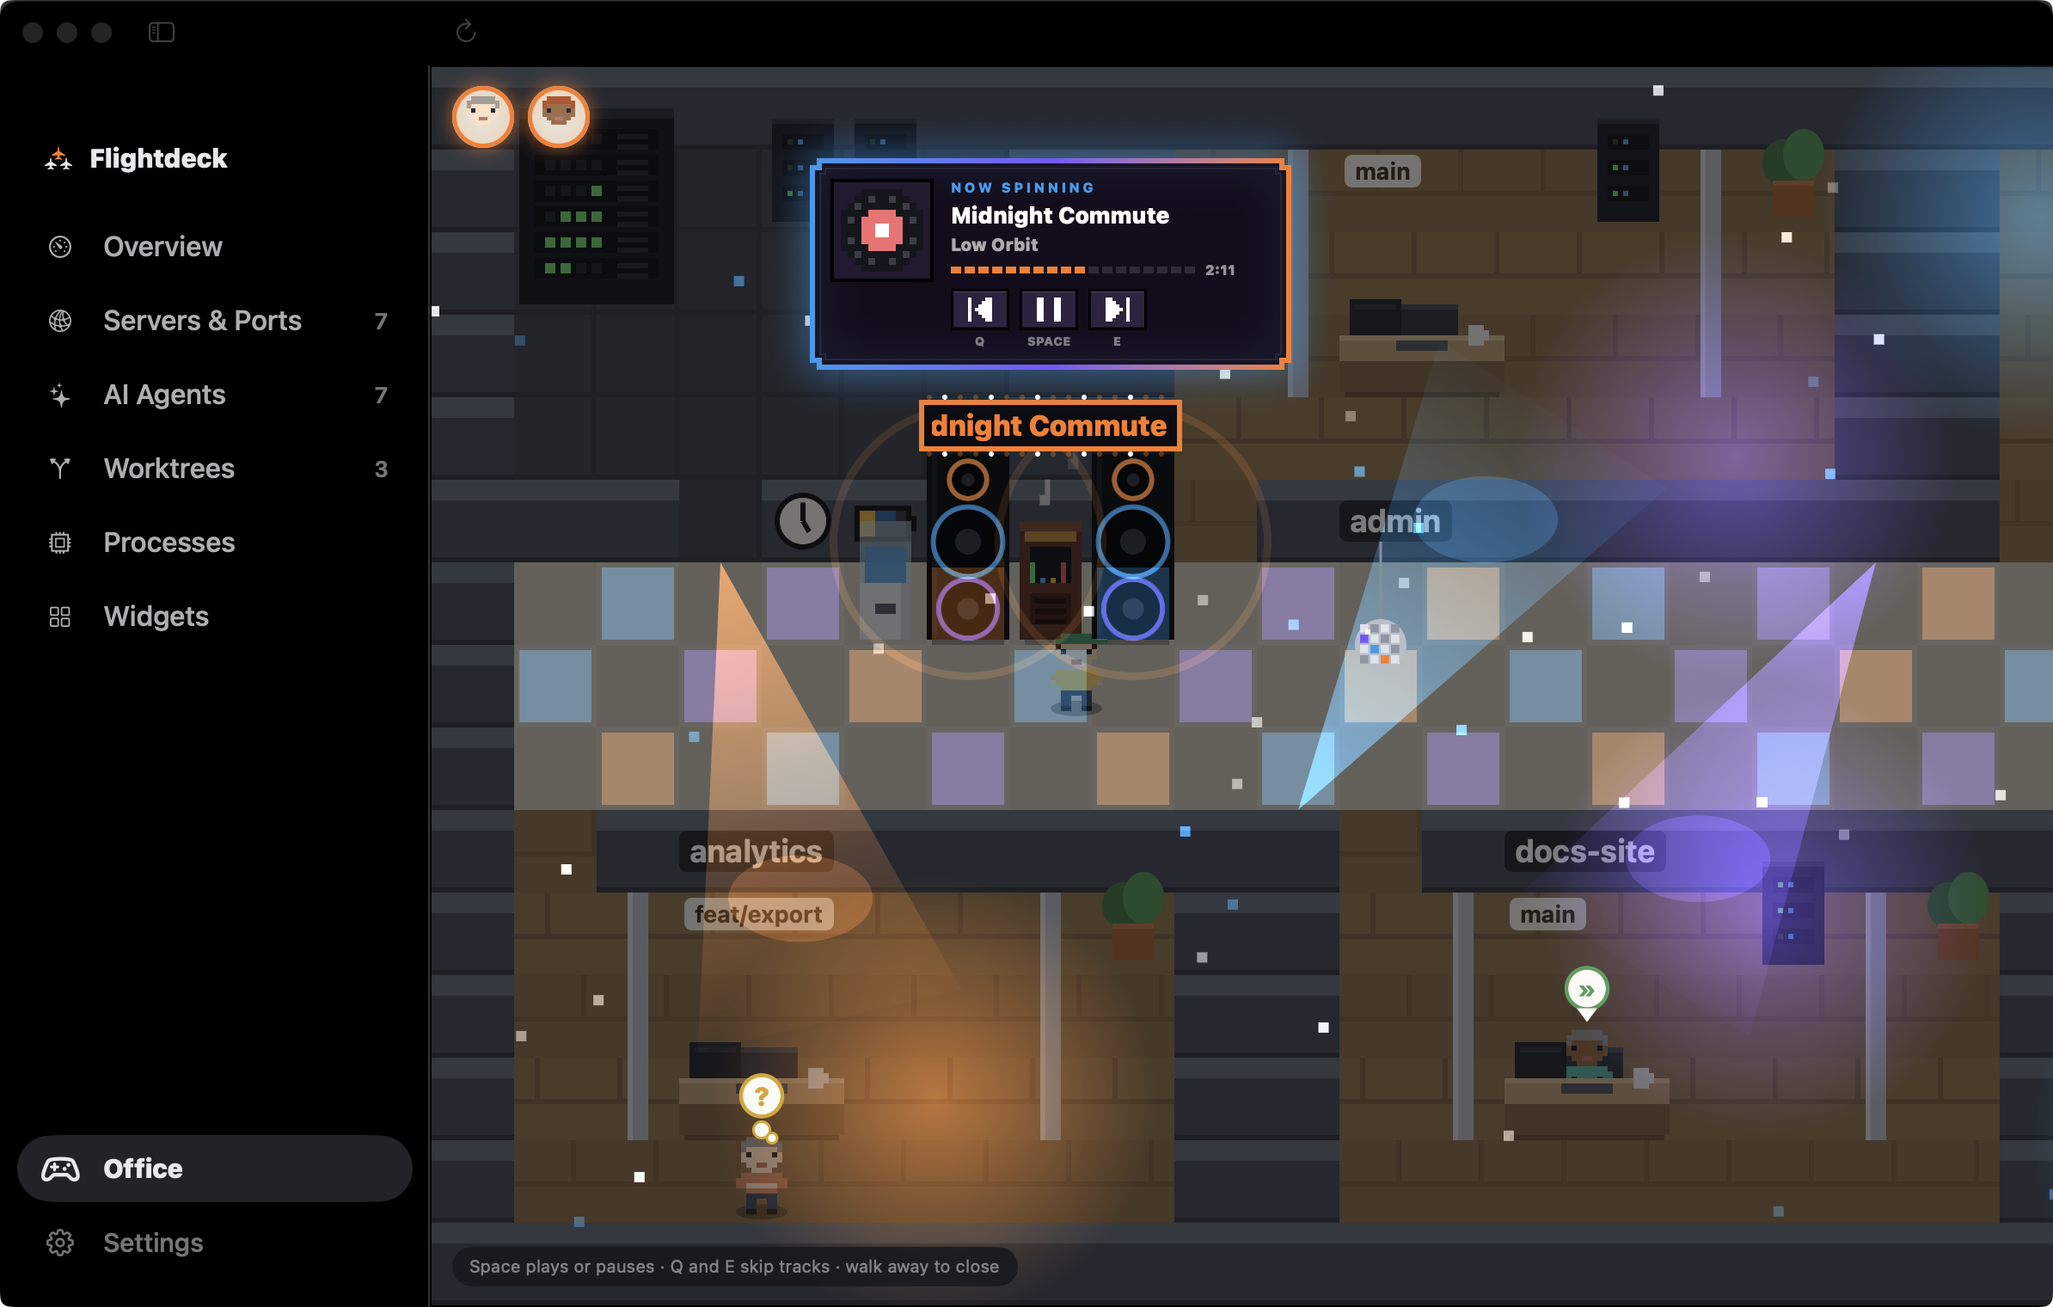
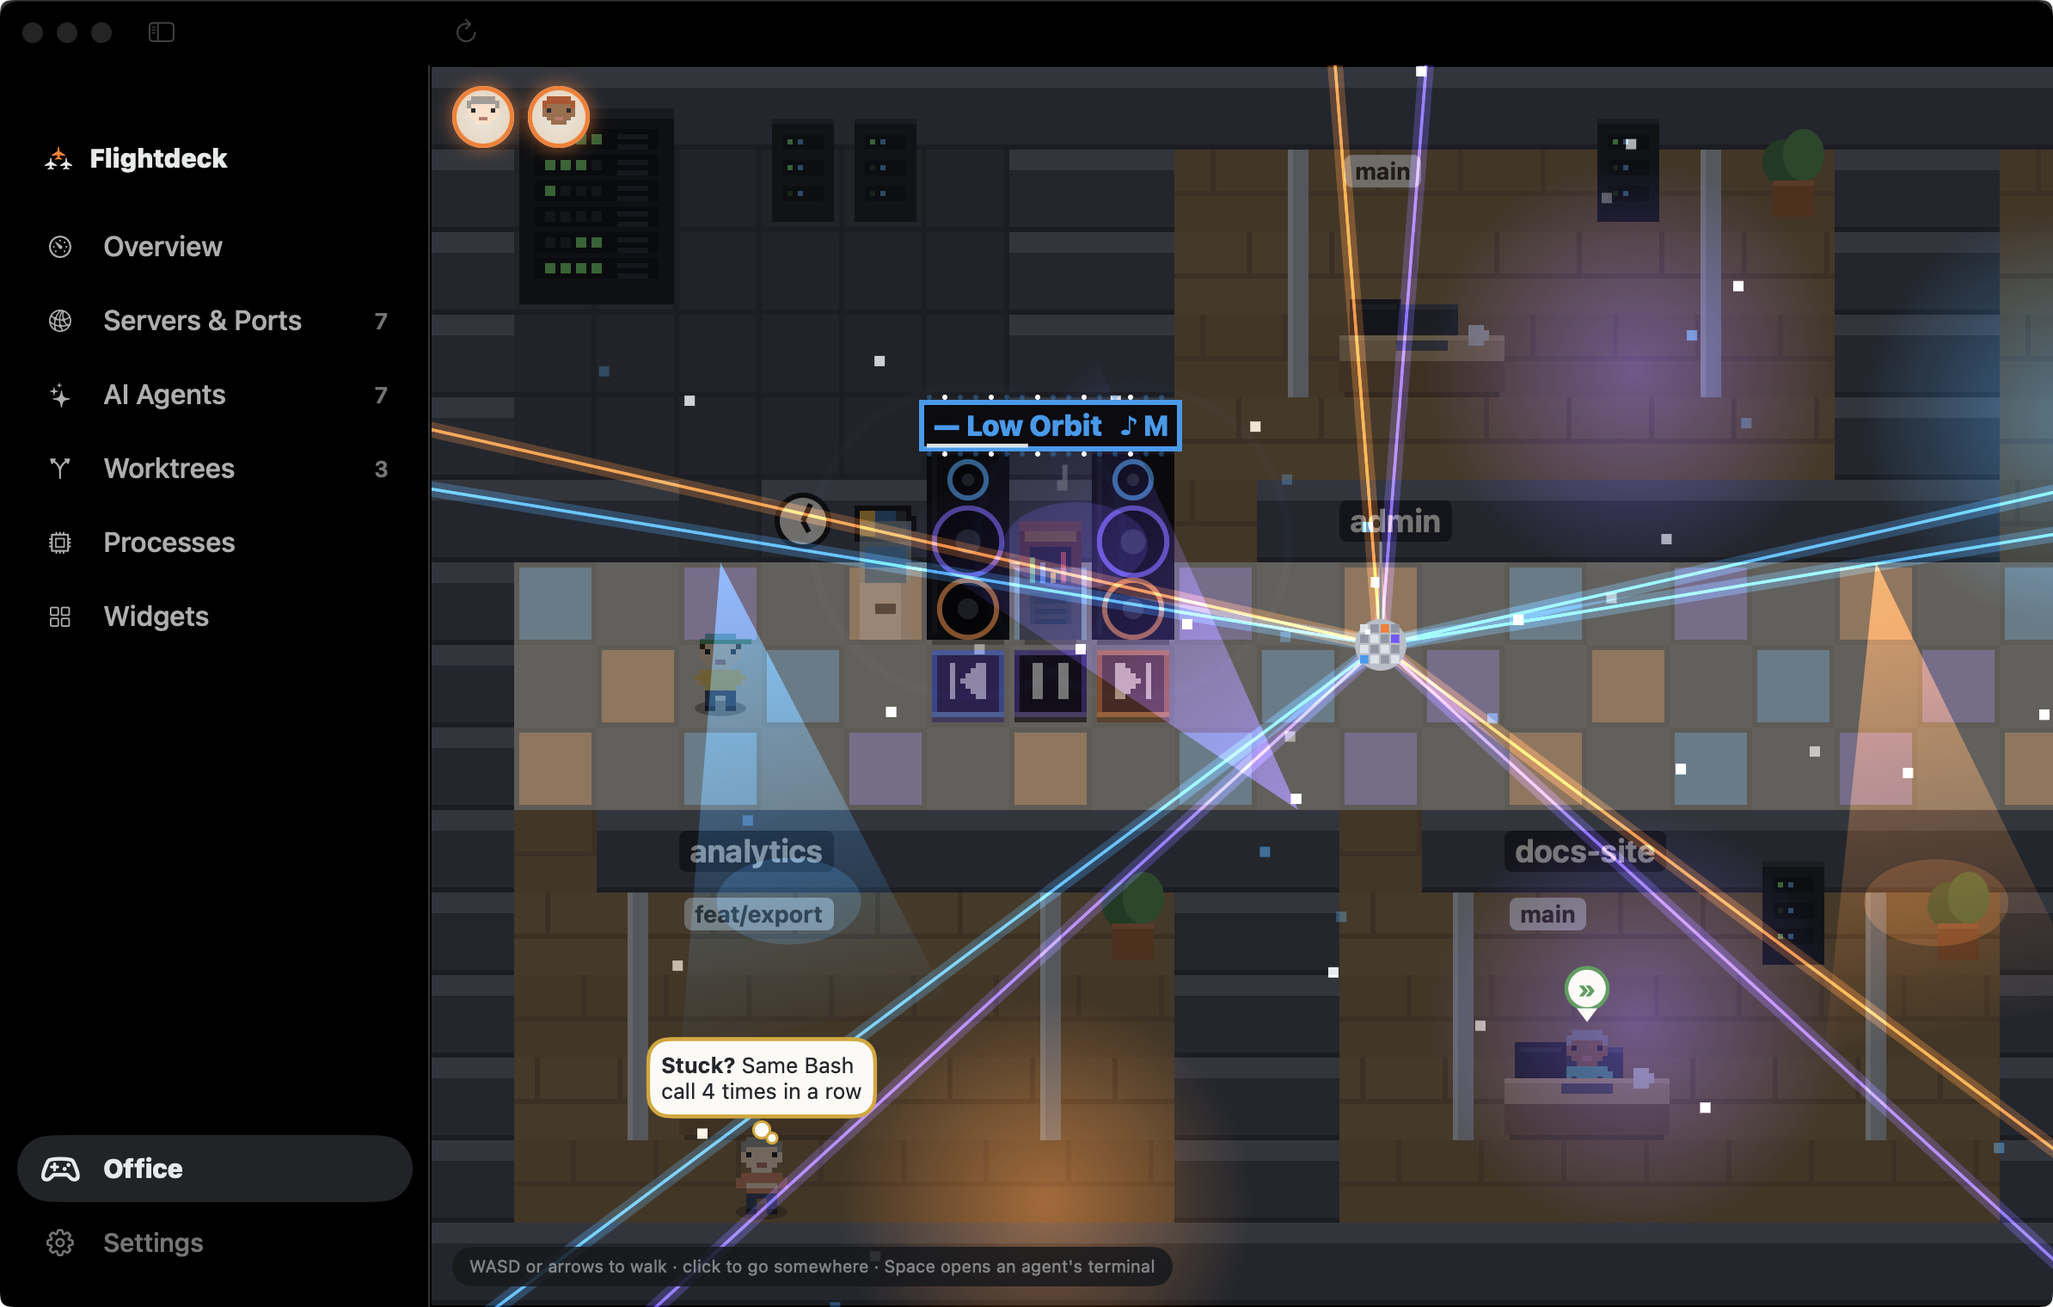
Put the jukebox controls on the office floor
- Replace the floating jukebox panel with three pixel pads in front of
  the jukebox: previous, play or pause, next; click them or use Space,
  Q and E nearby, and they sink and flash when pressed
- Show how far into the track it is along the sign over the speakers
- Retake the office screenshot and update the README and site text

diff --git a/Sources/FlightdeckApp/Views/Office/OfficePage.swift b/Sources/FlightdeckApp/Views/Office/OfficePage.swift
@@ -41,6 +41,7 @@ private struct OfficeStage: View {
     @State private var pointer: CGPoint = .zero
     @State private var needsYou = NeedsYouQueue()
     @State private var party = OfficePartyFeed()
+    @State private var pressedPad: (command: NowPlayingCommand, at: Date)?
     @Namespace private var avatarSpace
     @FocusState private var isFocused: Bool
 
@@ -54,7 +55,6 @@ private struct OfficeStage: View {
                     .onTapGesture(coordinateSpace: .local) { click(at: $0, camera: camera) }
                     .onContinuousHover(coordinateSpace: .local) { hover($0, camera: camera) }
                 agentCard(camera: camera, size: geometry.size)
-                jukeboxPanel(camera: camera, size: geometry.size)
                 tooltip(size: geometry.size)
                 needsYouCorner.padding(12)
                 hint.frame(maxWidth: .infinity, maxHeight: .infinity, alignment: .bottomLeading).padding(12)
@@ -98,6 +98,7 @@ private struct OfficeStage: View {
         return OfficeScene(map: game.map, agents: Dictionary(readings.agents.map { ($0.pid, $0) }, uniquingKeysWith: { first, _ in first }),
                            cpuLoad: readings.snapshot?.cpu.total ?? 0, memory: readings.snapshot?.memory, limitsHeadroom: readings.limitsHeadroom,
                            isMusicPlaying: readings.track?.isPlaying == true, track: readings.track, party: party,
+                           isAtJukebox: isAtJukebox, pressedPad: recentlyPressedPad,
                            player: game.player, isPlayerWalking: game.isWalking, playerFacesLeft: game.facesLeft, spotlightPID: spotlight)
     }
 
@@ -118,6 +119,7 @@ private struct OfficeStage: View {
         switch map.object(at: point) {
         case .agent(let pid): game.select(pid)
         case .rack(let port): store.openInBrowser(port: port.port)
+        case .jukeboxPad(let command) where readings.track != nil: pressPad(command)
         default: game.walk(to: point.tile)
         }
     }
@@ -143,7 +145,7 @@ private struct OfficeStage: View {
             if let agent = cardAgent {
                 store.openTerminal(for: agent)
             } else if isAtJukebox {
-                store.nowPlaying.send(.togglePlayPause)
+                pressPad(.togglePlayPause)
             } else {
                 return .ignored
             }
@@ -159,8 +161,8 @@ private struct OfficeStage: View {
     private func handleJukeboxKey(_ characters: String) -> KeyPress.Result {
         guard isAtJukebox else { return .ignored }
         switch characters {
-        case "q": store.nowPlaying.send(.previousTrack)
-        case "e": store.nowPlaying.send(.nextTrack)
+        case "q": pressPad(.previousTrack)
+        case "e": pressPad(.nextTrack)
         default: return .ignored
         }
         return .handled
@@ -171,15 +173,14 @@ private struct OfficeStage: View {
         readings.track != nil && cardAgent == nil && game.player.distance(to: map.jukebox.center) < 2.4
     }
 
-    @ViewBuilder
-    private func jukeboxPanel(camera: OfficeCamera, size: CGSize) -> some View {
-        if isAtJukebox, let track = readings.track {
-            let x = camera.screenX(Double(map.jukebox.x) + 0.5) - 140
-            let y = camera.screenY(Double(map.jukebox.y)) - camera.tileSize * 2.4 - 120
-            OfficeJukeboxPanel(track: track, colors: partyColors) { store.nowPlaying.send($0) }
-                .offset(x: min(max(8, x), size.width - 288), y: min(max(8, y), size.height - 140))
-                .transition(.opacity)
-        }
+    private func pressPad(_ command: NowPlayingCommand) {
+        store.nowPlaying.send(command)
+        pressedPad = (command, Date())
+    }
+
+    private var recentlyPressedPad: NowPlayingCommand? {
+        guard let pressedPad, Date().timeIntervalSince(pressedPad.at) < 0.25 else { return nil }
+        return pressedPad.command
     }
 
     private static func direction(for press: KeyPress) -> OfficeDirection? {
@@ -251,7 +252,7 @@ private struct OfficeStage: View {
     }
 
     private var hint: some View {
-        Text(isAtJukebox ? "Space plays or pauses · Q and E skip tracks · walk away to close"
+        Text(isAtJukebox ? "Space plays or pauses · Q and E skip tracks · or click the pads"
                          : "WASD or arrows to walk · click to go somewhere · Space opens an agent's terminal")
             .font(.caption)
             .foregroundStyle(theme.muted)

diff --git a/Sources/FlightdeckApp/Views/Office/OfficePartyGear.swift b/Sources/FlightdeckApp/Views/Office/OfficePartyGear.swift
@@ -41,7 +41,38 @@ struct OfficePartyGear {
             for speaker in scene.map.speakers { drawSpeakerGlow(speaker, party: party) }
             drawDiscoBall(party)
         }
-        if let track = scene.track { drawSign(track) }
+        if let track = scene.track {
+            drawPadRims()
+            drawSign(track)
+        }
+    }
+
+    /// Floor pads in front of the jukebox: previous, play or pause, next. Click them, or Space, Q and E nearby.
+    func drawPads() {
+        guard let track = scene.track else { return }
+        for pad in scene.map.jukeboxPads {
+            let (x, y) = OfficePen.pixels(pad.tile)
+            let isPressed = scene.pressedPad == pad.command
+            let sink = isPressed ? 1.0 : 0
+            pen.fill(x + 1, y + 2, 14, 13, 0x0B0910, opacity: 0.6)
+            pen.fill(x + 1, y + 1 + sink, 14, 12, isPressed ? 0x4A3A66 : 0x2A1F3A)
+            pen.fill(x + 1, y + 1 + sink, 14, 1, 0xFFFFFF, opacity: 0.18)
+            let icon = OfficePixelIcons.icon(for: pad.command, isPlaying: track.isPlaying)
+            pen.sprite(icon, palette: OfficePixelIcons.palette, bottomCenterX: x + 8, bottomY: y + 10.5 + sink)
+            if isPressed { pen.fill(x + 1, y + 1 + sink, 14, 12, 0xFFFFFF, opacity: 0.35) }
+        }
+    }
+
+    private func drawPadRims() {
+        let color = scene.party?.color(scene.party?.beat ?? 0) ?? Color(hex: Self.signColor)
+        let strength = scene.isAtJukebox ? 0.9 : 0.35
+        var glow = pen
+        glow.context.blendMode = .plusLighter
+        for (index, pad) in scene.map.jukeboxPads.enumerated() {
+            let (x, y) = OfficePen.pixels(pad.tile)
+            let rim = scene.party.map { $0.color(index + $0.beat) } ?? color
+            glow.context.stroke(Path(glow.rect(x + 1.5, y + 1.5, 13, 12)), with: .color(rim.opacity(strength * (0.7 + 0.3 * pulse))), lineWidth: pen.camera.scale)
+        }
     }
 
     private func drawSpeakerGlow(_ tile: TilePoint, party: OfficeParty) {
@@ -82,6 +113,9 @@ struct OfficePartyGear {
         pen.context.stroke(Path(pen.rect(sign.x, sign.y, sign.width, sign.height)), with: .color(color), lineWidth: pen.camera.scale)
         drawBulbs(sign, color: color)
         drawScrollingText(track, in: pen.rect(sign.x + 2, sign.y + 1.5, sign.width - 4, sign.height - 3), color: color)
+        if let progress = track.progress(at: Date()) {
+            pen.context.fill(Path(pen.rect(sign.x + 1, sign.y + sign.height - 1, (sign.width - 2) * progress, 0.75)), with: .color(.white.opacity(0.85)))
+        }
     }
 
     private func drawBulbs(_ sign: (x: Double, y: Double, width: Double, height: Double), color: Color) {

diff --git a/Sources/MonitorCore/Office/OfficeMap.swift b/Sources/MonitorCore/Office/OfficeMap.swift
@@ -51,6 +51,13 @@ public enum OfficeObject: Hashable, Sendable {
     case waterCooler
     case wallClock
     case jukebox
+    case jukeboxPad(NowPlayingCommand)
+}
+
+/// A floor pad in front of the jukebox that sends a playback command when clicked.
+public struct OfficeJukeboxPad: Hashable, Sendable {
+    public var tile: TilePoint
+    public var command: NowPlayingCommand
 }
 
 /// The whole office, laid out from the current agents and dev servers.
@@ -77,6 +84,12 @@ public struct OfficeMap: Hashable, Sendable {
     }
 
     public var desks: [OfficeDesk] { rooms.flatMap(\.cubicles).flatMap(\.desks) }
+
+    /// Previous, play or pause, and next, on the row in front of the jukebox.
+    public var jukeboxPads: [OfficeJukeboxPad] {
+        let commands: [NowPlayingCommand] = [.previousTrack, .togglePlayPause, .nextTrack]
+        return commands.enumerated().map { OfficeJukeboxPad(tile: TilePoint(x: jukebox.x - 1 + $0.offset, y: jukebox.y + 1), command: $0.element) }
+    }
     public var racks: [OfficeRack] { closetRacks + rooms.flatMap(\.cubicles).flatMap(\.racks) }
 
     public func desk(of pid: Int32) -> OfficeDesk? {
@@ -100,6 +113,7 @@ public struct OfficeMap: Hashable, Sendable {
         if cpuRack.contains(tile) { return .cpuRack }
         if tile == waterCooler { return .waterCooler }
         if tile == jukebox || speakers.contains(tile) { return .jukebox }
+        if let pad = jukeboxPads.first(where: { $0.tile == tile }) { return .jukeboxPad(pad.command) }
         if tile == wallClock || tile == TilePoint(x: wallClock.x + 1, y: wallClock.y) { return .wallClock }
         return nil
     }

diff --git a/site/app/page.tsx b/site/app/page.tsx
@@ -64,8 +64,8 @@ const FEATURE_ROWS = [
   {
     label: "Office",
     title: "Walk around your agents.",
-    body: "A pixel-art office with a room per repo, where every agent is posed by what it's doing. Agents that need you wait as bouncing avatars along the top, and a jukebox plays what's on. When music plays it turns into a party in your visualiser colours, with a flashing dance floor, lasers, pumping speakers and every agent nodding to the beat. Walk up to the jukebox to skip or pause. Walk up to an agent to go to its terminal or stop it.",
-    image: { src: "/screenshots/office.png", alt: "Office party with a dance floor, lasers, speaker stacks and the jukebox panel", width: 1194, height: 760 },
+    body: "A pixel-art office with a room per repo, where every agent is posed by what it's doing. Agents that need you wait as bouncing avatars along the top, and a jukebox plays what's on. When music plays it turns into a party in your visualiser colours, with a flashing dance floor, lasers, pumping speakers and every agent nodding to the beat. Click the pads in front of the jukebox to skip or pause. Walk up to an agent to go to its terminal or stop it.",
+    image: { src: "/screenshots/office.png", alt: "Office party with a dance floor, lasers, speaker stacks and the jukebox pads", width: 1194, height: 760 },
   },
   {
     label: "Now playing",

diff --git a/Sources/FlightdeckApp/Views/Office/OfficePixelIcons.swift b/Sources/FlightdeckApp/Views/Office/OfficePixelIcons.swift
@@ -1,0 +1,19 @@
+import MonitorCore
+
+/// Seven-pixel transport icons for the jukebox pads.
+enum OfficePixelIcons {
+    static let palette = SpritePalette(colors: ["w": 0xFFFFFF])
+
+    static let play = PixelSprite(name: "icon-play", rows: ["w......", "www....", "wwwww..", "wwwwwww", "wwwww..", "www....", "w......"])
+    static let pause = PixelSprite(name: "icon-pause", rows: Array(repeating: "ww...ww", count: 7))
+    static let previous = PixelSprite(name: "icon-previous", rows: ["w....ww", "w...www", "w..wwww", "w.wwwww", "w..wwww", "w...www", "w....ww"])
+    static let next = PixelSprite(name: "icon-next", rows: ["ww....w", "www...w", "wwww..w", "wwwww.w", "wwww..w", "www...w", "ww....w"])
+
+    static func icon(for command: NowPlayingCommand, isPlaying: Bool) -> PixelSprite {
+        switch command {
+        case .previousTrack: previous
+        case .nextTrack: next
+        default: isPlaying ? pause : play
+        }
+    }
+}

diff --git a/Sources/FlightdeckApp/Views/Office/OfficeRenderer.swift b/Sources/FlightdeckApp/Views/Office/OfficeRenderer.swift
@@ -15,6 +15,10 @@ struct OfficeScene {
     var track: NowPlayingTrack?
     /// The rave while music plays and the party is on.
     var party: OfficeParty?
+    /// The player stands by the jukebox, so its pads light up.
+    var isAtJukebox = false
+    /// The pad pressed a moment ago, drawn pushed in.
+    var pressedPad: NowPlayingCommand?
     var player: OfficePoint
     var isPlayerWalking: Bool
     var playerFacesLeft: Bool
@@ -31,6 +35,7 @@ struct OfficeRenderer {
     func draw(size: CGSize) {
         drawTiles(size: size)
         OfficeWallDecor(scene: scene, pen: pen, time: time).draw()
+        OfficePartyGear(scene: scene, pen: pen, time: time).drawPads()
         for item in drawables().sorted(by: { $0.depth < $1.depth }) { item.draw() }
         if let party = scene.party { OfficePartyLights(scene: scene, party: party, pen: pen, time: time).draw() }
         OfficePartyGear(scene: scene, pen: pen, time: time).drawGlow()

diff --git a/Tests/MonitorCoreTests/OfficeTests.swift b/Tests/MonitorCoreTests/OfficeTests.swift
@@ -142,6 +142,8 @@ struct OfficeTests {
         let map = OfficeMap.build(agents: ["a", "b", "c"].enumerated().map { agent(Int32($0), project($1)) }, ports: [])
         #expect(map.hallway.contains(map.jukebox))
         #expect(map.grid[map.jukebox] == .furniture)
+        #expect(map.jukeboxPads.map(\.command) == [.previousTrack, .togglePlayPause, .nextTrack])
+        #expect(map.jukeboxPads.allSatisfy { map.hallway.contains($0.tile) && map.grid[$0.tile].isWalkable && map.object(at: $0.tile.center) == .jukeboxPad($0.command) })
         #expect(map.speakers.allSatisfy { map.hallway.contains($0) && map.grid[$0] == .furniture && map.object(at: $0.center) == .jukebox })
         for room in map.rooms {
             #expect(OfficePathfinder.path(in: map.grid, from: map.playerStart.tile, to: room.door) != nil)

diff --git a/Sources/FlightdeckApp/Views/Office/OfficeTooltipText.swift b/Sources/FlightdeckApp/Views/Office/OfficeTooltipText.swift
@@ -13,6 +13,15 @@ enum OfficeTooltipText {
         case .waterCooler: return memory(readings.snapshot?.memory)
         case .wallClock: return limits(readings)
         case .jukebox: return jukebox(readings.track)
+        case .jukeboxPad(let command): return readings.track == nil ? nil : pad(command)
+        }
+    }
+
+    private static func pad(_ command: NowPlayingCommand) -> String {
+        switch command {
+        case .previousTrack: "Previous track (Q by the jukebox)"
+        case .nextTrack: "Next track (E by the jukebox)"
+        default: "Play or pause (Space by the jukebox)"
         }
     }
 

diff --git a/Sources/MonitorCore/NowPlaying/NowPlayingControls.swift b/Sources/MonitorCore/NowPlaying/NowPlayingControls.swift
@@ -1,7 +1,7 @@
 import Foundation
 
 /// A transport command for whatever owns the system now-playing slot, with MediaRemote's numbers.
-public enum NowPlayingCommand: Int, Sendable, CaseIterable {
+public enum NowPlayingCommand: Int, Hashable, Sendable, CaseIterable {
     case play = 0
     case pause = 1
     case togglePlayPause = 2

diff --git a/README.md b/README.md
@@ -51,7 +51,7 @@ brew install --cask magnuspladsen/tap/flightdeck
 
 | The Office | Now playing |
 |---|---|
-| <img src="docs/screenshots/office.png" alt="Office party: dimmed rooms, dance floor, lasers, speaker stacks and the jukebox panel" width="420"> | <img src="docs/screenshots/now-playing.png" alt="Now playing with player controls and the adjust menu" width="420"> |
+| <img src="docs/screenshots/office.png" alt="Office party: dimmed rooms, dance floor, lasers, speaker stacks and the jukebox pads" width="420"> | <img src="docs/screenshots/now-playing.png" alt="Now playing with player controls and the adjust menu" width="420"> |
 
 Screenshots use demo data: start the app with `FLIGHTDECK_DEMO=1` to see the same.
 
@@ -68,7 +68,7 @@ Screenshots use demo data: start the app with `FLIGHTDECK_DEMO=1` to see the sam
 - **Today**: agent time, time spent waiting on you and turns per project, compared with yesterday.
 - **Token spend**: optional, off by default. Estimated cost per project and model from Claude Code and Codex logs, with a daily budget alert. Turn it on in Settings › AI.
 - **Ask Claude**: type a question in the overview's search bar and press Return, or press ⌘K anywhere in the dashboard. The answer opens in a palette with follow-ups, and agents it names open their terminal in one click. It runs your installed `claude` CLI with read-only tools and a snapshot of what the dashboard shows.
-- **Office**: a walkable pixel-art office with a room per repo, where each agent is posed by what it's doing. Agents that need you show as bouncing avatars along the top, and a jukebox plays what's on. While music plays the office turns into a party in your visualiser colours: the dance floor flashes, spotlights and lasers sweep, the speakers pump and every agent nods to the beat. Walk up to the jukebox for the track and controls (Space, Q and E). Walk up to an agent to go to its terminal or stop it. Open it from Office in the sidebar or the Visualize button.
+- **Office**: a walkable pixel-art office with a room per repo, where each agent is posed by what it's doing. Agents that need you show as bouncing avatars along the top, and a jukebox plays what's on. While music plays the office turns into a party in your visualiser colours: the dance floor flashes, spotlights and lasers sweep, the speakers pump and every agent nods to the beat. Click the pads in front of the jukebox to skip or pause, or stand by it and press Space, Q or E. Walk up to an agent to go to its terminal or stop it. Open it from Office in the sidebar or the Visualize button.
 - **Now playing**: what's playing in any player, with a visualiser in your theme's colours. Previous, play/pause and next, plus a volume slider for Spotify and Music. The adjust menu switches between Minimal and Expanded, five visualiser styles and six palettes. Live audio levels are opt-in; otherwise the bars follow play and pause. The section collapses like System.
 - **Custom widgets**: shell commands shown as dashboard tiles.
 - **Status command**: `flightdeck status` and a status file for SketchyBar, tmux and Raycast. See [docs/integrations.md](docs/integrations.md).
